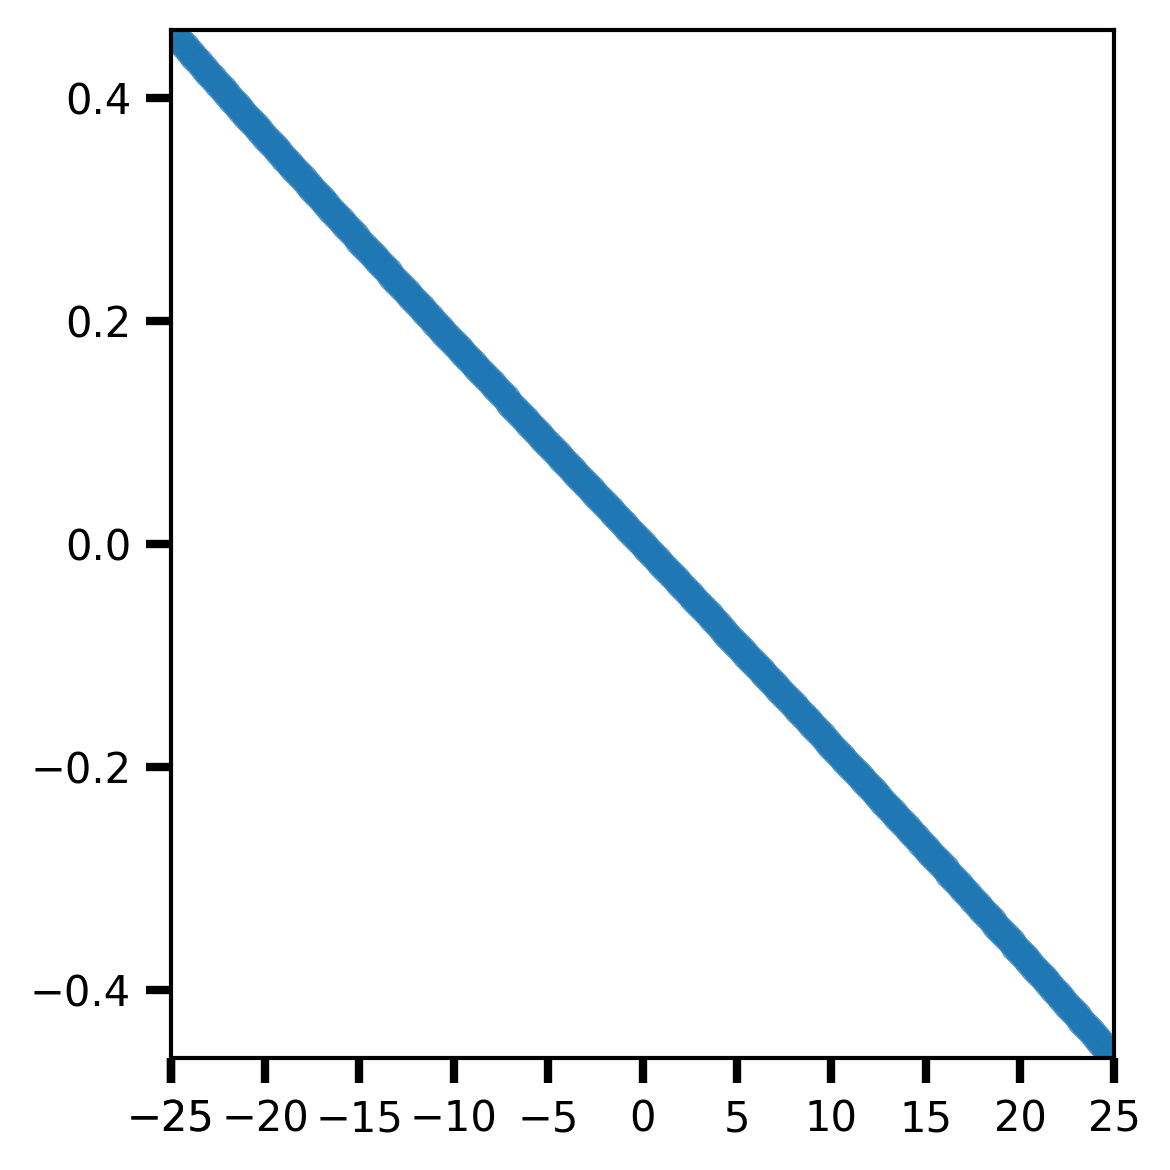
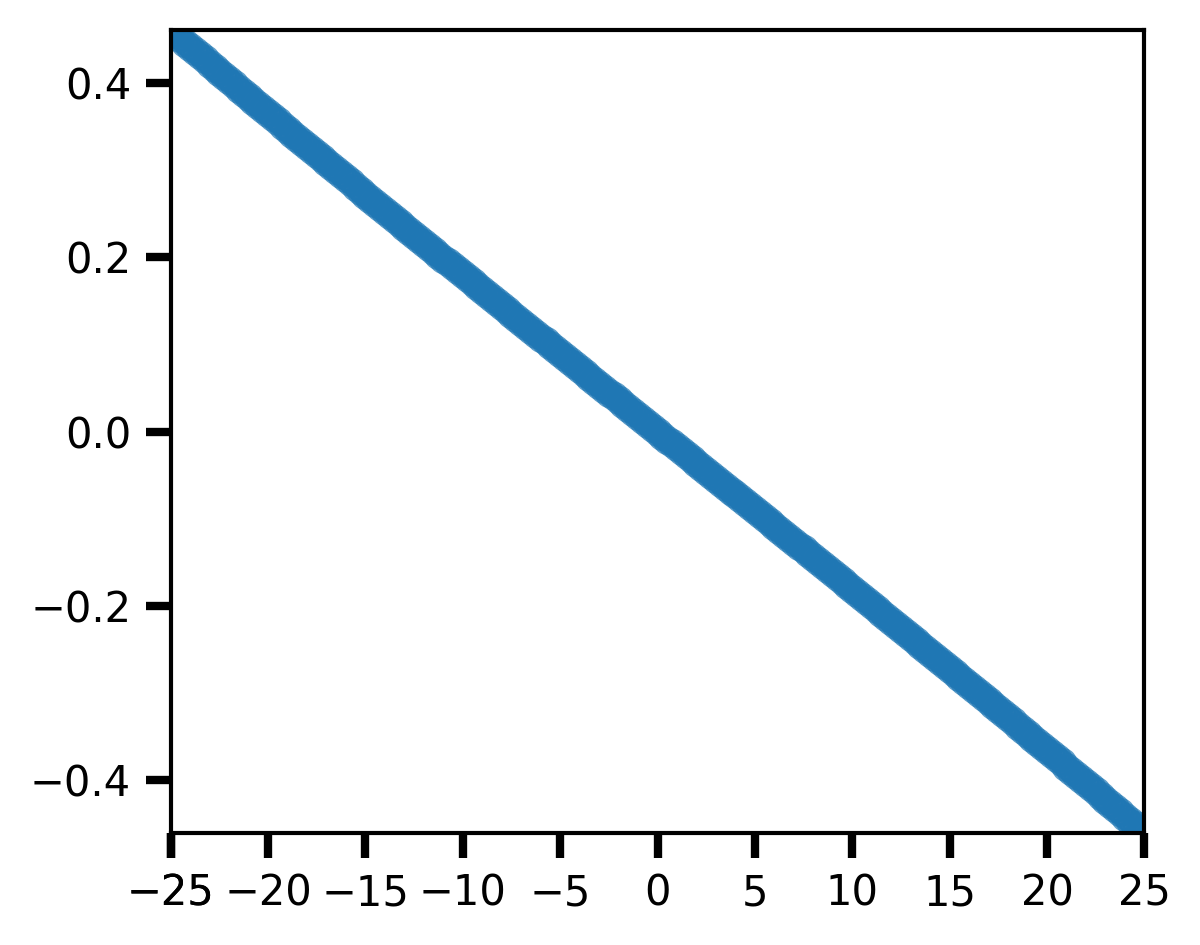
adjustedplot dims to make inner box of both plot samesize

Changed region(s): [[0.0308, 0.0, 0.9846, 0.982], [0.3385, 0.2455, 0.3692, 0.2762], [0.3077, 0.2148, 0.3385, 0.2455]]

diff --git a/E_perp_vs_par_Field.py b/E_perp_vs_par_Field.py
@@ -126,7 +126,33 @@ def main():
     
     '''
     # Create subplots
-    fig, ax = plt.subplots(1, 1, figsize=(4, 4))  # 1 row, 1 columns
+    #fig, ax = plt.subplots(1, 1, figsize=(4, 4))  # 1 row, 1 columns
+
+    from matplotlib.transforms import Bbox
+
+    # --- Define target inner box size (in inches) ---
+    inner_width = 3.4     # PRB one-column box width
+    inner_height = 2.55
+
+    # --- Compute total figure size with margins ---
+    # (these margins roughly account for labels/ticks)
+    left_margin = 0.6
+    bottom_margin = 0.5
+    right_margin = 0.1
+    top_margin = 0.2
+
+    fig_width = inner_width + left_margin + right_margin
+    fig_height = inner_height + bottom_margin + top_margin
+
+    fig, ax = plt.subplots(figsize=(fig_width, fig_height), constrained_layout=False)
+
+    # --- Adjust axes box ---
+    fig.subplots_adjust(
+        left=left_margin/fig_width,
+        right=1 - right_margin/fig_width,
+        bottom=bottom_margin/fig_height,
+        top=1 - top_margin/fig_height,
+    )
 
     ratio2 = np.divide(E_med1_a[:,0]-E_med1_b[:,0], E_med1_a[:,2]-E_med1_b[:,2],  out=np.zeros_like(E_med1_a[:,0]), where=(E_med1_a[:,2])!=0, dtype=np.float64)  # Ensures precision
 

diff --git a/E_perp_vs_par_Field_transverse_disp.py b/E_perp_vs_par_Field_transverse_disp.py
@@ -77,7 +77,34 @@ def main():
     plt.show()
     '''
     # Create subplots
-    fig, ax = plt.subplots(1, 1, figsize=(4, 4))  # 1 row, 1 columns
+    #fig, ax = plt.subplots(1, 1, figsize=(4, 4))  # 1 row, 1 columns
+
+    
+    from matplotlib.transforms import Bbox
+
+    # --- Define target inner box size (in inches) ---
+    inner_width = 3.4     # PRB one-column box width
+    inner_height = 2.55
+
+    # --- Compute total figure size with margins ---
+    # (these margins roughly account for labels/ticks)
+    left_margin = 0.6
+    bottom_margin = 0.5
+    right_margin = 0.1
+    top_margin = 0.2
+
+    fig_width = inner_width + left_margin + right_margin
+    fig_height = inner_height + bottom_margin + top_margin
+
+    fig, ax = plt.subplots(figsize=(fig_width, fig_height), constrained_layout=False)
+
+    # --- Adjust axes box ---
+    fig.subplots_adjust(
+        left=left_margin/fig_width,
+        right=1 - right_margin/fig_width,
+        bottom=bottom_margin/fig_height,
+        top=1 - top_margin/fig_height,
+    )
 
     ratio = np.divide(E_med1_a[:,2]-E_med1_b[:,2], E_med1_a[:,0]-E_med1_b[:,0], dtype=np.float64)  # Ensures precision
 
